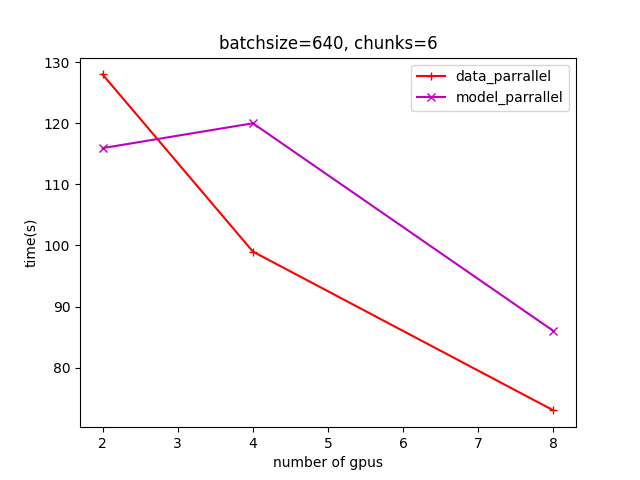
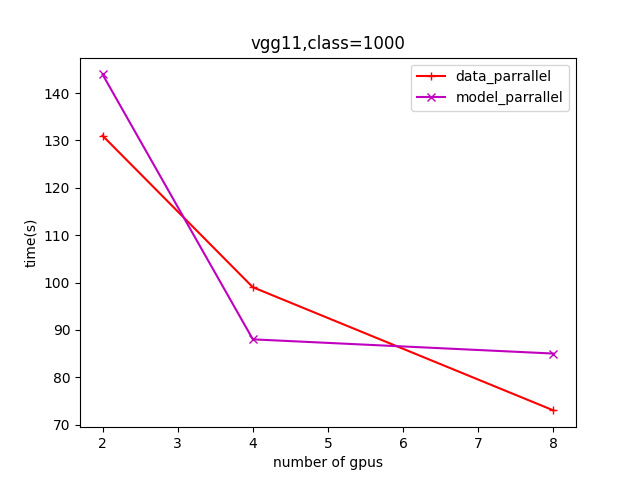
a

diff --git a/dpmp_one_machine/test/resnet101-speed/resnet/bottleneck.py b/dpmp_one_machine/test/resnet101-speed/resnet/bottleneck.py
@@ -49,8 +49,7 @@ class Residual(nn.Module):
             identity = self.downsample(identity)
         return input + identity
 
-
-def bottleneck(inplanes: int,
+def bottleneck(inplanes: int, ## basic neck
                planes: int,
                stride: int = 1,
                downsample: Optional[nn.Module] = None,
@@ -63,17 +62,41 @@ def bottleneck(inplanes: int,
     ns = Namespace()
     layers['identity'] = Identity().isolate(ns)  # type: ignore
 
-    layers['conv1'] = conv1x1(inplanes, planes)
-    layers['bn1'] = nn.BatchNorm2d(planes)
-    layers['relu1'] = nn.ReLU(inplace=inplace)
-
     layers['conv2'] = conv3x3(planes, planes, stride)
     layers['bn2'] = nn.BatchNorm2d(planes)
     layers['relu2'] = nn.ReLU(inplace=inplace)
 
-    layers['conv3'] = conv1x1(planes, planes * 4)
+    layers['conv3'] = conv3x3(planes, planes * 4)
     layers['bn3'] = nn.BatchNorm2d(planes * 4)
     layers['residual'] = Residual(downsample).isolate(ns)  # type: ignore
     layers['relu3'] = nn.ReLU(inplace=inplace)
 
     return nn.Sequential(layers)
+
+# def bottleneck(inplanes: int,  # bottleneck
+#                planes: int,
+#                stride: int = 1,
+#                downsample: Optional[nn.Module] = None,
+#                inplace: bool = False,
+#                ) -> nn.Sequential:
+#     """Creates a bottleneck block in ResNet as a :class:`nn.Sequential`."""
+
+#     layers: NamedModules = OrderedDict()
+
+#     ns = Namespace()
+#     layers['identity'] = Identity().isolate(ns)  # type: ignore
+
+#     layers['conv1'] = conv1x1(inplanes, planes)
+#     layers['bn1'] = nn.BatchNorm2d(planes)
+#     layers['relu1'] = nn.ReLU(inplace=inplace)
+
+#     layers['conv2'] = conv3x3(planes, planes, stride)
+#     layers['bn2'] = nn.BatchNorm2d(planes)
+#     layers['relu2'] = nn.ReLU(inplace=inplace)
+
+#     layers['conv3'] = conv1x1(planes, planes * 4)
+#     layers['bn3'] = nn.BatchNorm2d(planes * 4)
+#     layers['residual'] = Residual(downsample).isolate(ns)  # type: ignore
+#     layers['relu3'] = nn.ReLU(inplace=inplace)
+
+#     return nn.Sequential(layers)

diff --git a/dpmp_one_machine/test/resnet101-speed/resnet/__init__.py b/dpmp_one_machine/test/resnet101-speed/resnet/__init__.py
@@ -93,7 +93,7 @@ def build_resnet(layers: List[int],
 
     return model
 
-def build_vgg( num_classes: int = 10 ) -> nn.Sequential:
+def build_vgg() -> nn.Sequential:
     # cfg = cfg['E']
     def make_layers(cfg, batch_norm=True):
         layers = []
@@ -144,8 +144,10 @@ def build_vgg( num_classes: int = 10 ) -> nn.Sequential:
 
 def resnet101(**kwargs: Any) -> nn.Sequential:
     """Constructs a ResNet-101 model."""
-    return build_resnet([3, 4, 23, 3], **kwargs)
-    # return build_resnet([3, 8, 36, 3], **kwargs)
+    # ResNet(BasicBlock, [2, 2, 2, 2])
+    return build_resnet([2, 2, 2, 2], **kwargs) # resnet18
+    # return build_resnet([3, 4, 23, 3], **kwargs) # 101
+    # return build_resnet([3, 8, 36, 3], **kwargs) 
     # return ResNet(BottleNeck, [3, 4, 6, 3])
 
 def vgg11(**kwargs: Any) -> nn.Sequential:

diff --git a/dpmp_one_machine/test/test_dp.py b/dpmp_one_machine/test/test_dp.py
@@ -220,9 +220,9 @@ def init_process(args,rank, fn, backend='gloo'):
     # dist.init_process_group("gloo", rank=rank, world_size=args.g)
     torch.cuda.set_device(rank)
     model = vgg.vgg11_bn().to(rank)
-    #model = resnet.resnet101(num_classes=10)
+    # model = resnet.resnet101(num_classes=10)
     # model = cast(nn.Sequential, model)
-    # model = resnet.resnet101().to(rank)
+    # model = resnet.resnet18().to(rank)
     
     model = torch.nn.parallel.DistributedDataParallel(
         model, device_ids=[rank], output_device=rank

diff --git a/dpmp_one_machine/test/pig.py b/dpmp_one_machine/test/pig.py
@@ -5,7 +5,7 @@ dp = [131,99,73]  #gloo
 mp = [143.932,88,85] # chunks = 8
 # Plot Average Accuracy vs Communication rounds
 plt.figure()
-plt.title('batchsize=640, chunks=6')
+plt.title('vgg11,class=1000')
 # plt.plot(num_gpu, dp_nccl, "x-", color='m', label = "data_parrallel_in_nccl")
 plt.plot(num_gpu, dp, "+-", color='r', label = "data_parrallel")
 plt.plot(num_gpu, mp, "x-", color='m', label = "model_parrallel")

diff --git a/dpmp_one_machine/test/models/resnet.py b/dpmp_one_machine/test/models/resnet.py
@@ -79,7 +79,7 @@ class BottleNeck(nn.Module):
 
 class ResNet(nn.Module):
 
-    def __init__(self, block, num_block, num_classes=10):
+    def __init__(self, block, num_block, num_classes=1000):
         super().__init__()
 
         self.in_channels = 64
